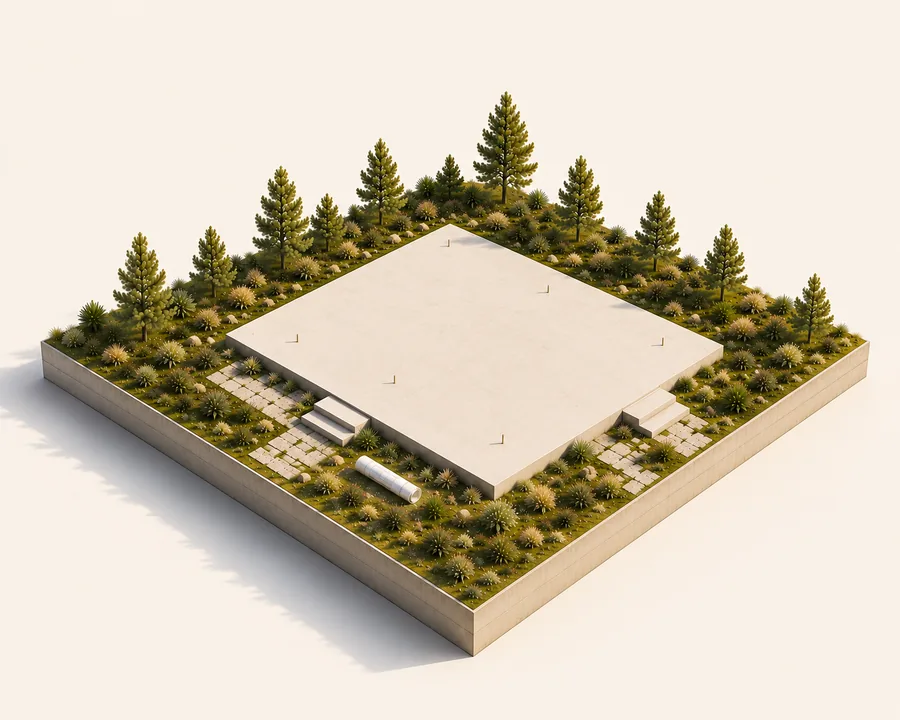
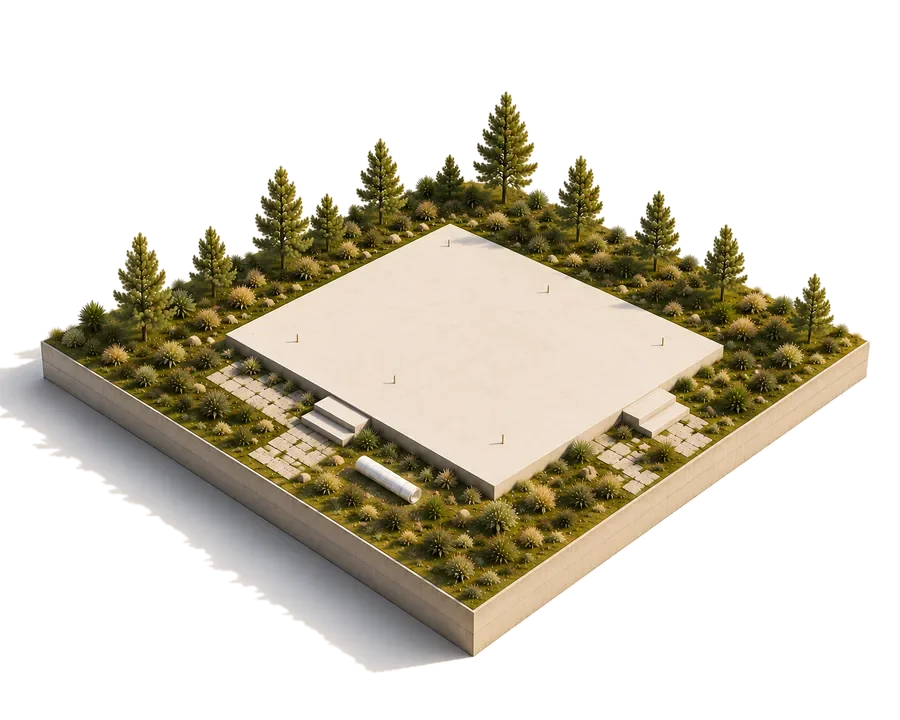
Notre procédé: cartes plus grandes + illustrations détourées; Concept: ombre du tronc
Détourage fait localement (flood fill depuis les bords, en Python/
numpy) après avoir découvert que l'API de détourage Higgsfield n'est
pas joignable depuis ce sandbox. Cartes du carousel agrandies (desktop
et mobile), images en object-contain pour ne plus jamais les recadrer.
Ajout d'une ombre portée synthétique sur le tronc de bois (Concept),
seul des 3 objets à ne pas en avoir une déjà intégrée à sa vidéo.

diff --git a/src/components/ProcedeCarousel.tsx b/src/components/ProcedeCarousel.tsx
@@ -38,6 +38,30 @@ import { AnimatePresence, motion, useReducedMotion } from "framer-motion";
  * jamais `illustrationUrl` est `null` — conservé comme filet de
  * sécurité, plus utilisé actuellement.
  *
+ * Détourage : demande client ("supprime l'arrière-plan des photos pour
+ * qu'elles s'incrustent bien"). Le remplaceur de fond IA d'Higgsfield
+ * (`remove_background`) nécessite un upload vers `upload.higgsfield.ai`
+ * depuis ce sandbox — hôte bloqué par la politique réseau (403 confirmé,
+ * même famille de restriction que les pièces jointes GitHub). Détourage
+ * fait localement à la place : les rendus ont un fond crème quasi
+ * parfaitement uniforme (échantillonné aux 4 coins), mais une simple
+ * distance de couleur globale mord dans le toit (teinte très proche du
+ * fond) — recours à un flood fill (propagation depuis les bords de
+ * l'image, uniquement à travers des pixels "couleur fond", en Python/
+ * numpy) : ne retire QUE la région de fond réellement connectée au
+ * bord, donc le toit clair (jamais connecté au bord, encerclé par la
+ * végétation) reste intact même s'il est presque de la même couleur.
+ * Léger flou (quelques passes de box-blur sur le canal alpha) pour
+ * adoucir le contour plutôt qu'un détourage à l'emporte-pièce. Résultat
+ * en WebP avec canal alpha (même noms de fichiers `procede-0X.webp`,
+ * contenu remplacé).
+ *
+ * Cartes agrandies (desktop et mobile) : `image object-cover` →
+ * `object-contain`, plus la peine de recadrer maintenant que le fond
+ * est transparent — l'espace "vide" autour du sujet ne montre plus une
+ * couleur de secours mais laisse voir le fond crème de la carte,
+ * invisible donc pas de recadrage nécessaire pour cacher un bord.
+ *
  * Mécanique : seules 3 cartes sont montées à la fois (active + 2
  * voisines, `Math.abs(offset) <= 1`) — au-delà, une carte n'existe pas
  * encore dans le DOM. `AnimatePresence` gère alors son entrée (glisse
@@ -99,8 +123,13 @@ function CardIllustration({
   index: number;
 }) {
   if (url) {
+    // object-contain (pas object-cover) : les illustrations sont
+    // détourées (fond retiré), donc plus besoin — et plus jamais
+    // souhaitable — de les recadrer en plein cadre. Le "vide" autour du
+    // sujet est transparent, pas une couleur de secours, donc invisible
+    // sur le fond crème de la carte.
     // eslint-disable-next-line @next/next/no-img-element
-    return <img src={url} alt="" className="h-full w-full object-cover" />;
+    return <img src={url} alt="" className="h-full w-full object-contain" />;
   }
   return (
     <div className="flex h-full w-full items-center justify-center bg-gradient-to-br from-brume-2 to-brume">
@@ -147,14 +176,14 @@ export default function ProcedeCarousel() {
       onMouseLeave={() => setPaused(false)}
     >
       <div
-        className="relative mx-auto h-[460px] max-w-sm sm:h-[500px]"
+        className="relative mx-auto h-[540px] max-w-md sm:h-[620px]"
         style={{ perspective: "1400px" }}
       >
         <AnimatePresence initial={false}>
           {visible.map(({ etape, index, offset }) => {
             const isActive = offset === 0;
             const target = {
-              x: offset * 210,
+              x: offset * 250,
               scale: isActive ? 1 : 0.82,
               opacity: isActive ? 1 : 0.45,
               rotateY: offset * -12,
@@ -164,7 +193,7 @@ export default function ProcedeCarousel() {
             // DOM) démarre plus loin dans le même sens que sa cible,
             // pour glisser vers sa place plutôt que de "popper".
             const enterFrom = {
-              x: offset * 380,
+              x: offset * 460,
               scale: 0.6,
               opacity: 0,
               rotateY: offset * -12,
@@ -176,7 +205,7 @@ export default function ProcedeCarousel() {
                 key={etape.title}
                 className="absolute inset-0 m-auto"
                 style={{
-                  width: "min(100%, 300px)",
+                  width: "min(94%, 360px)",
                   zIndex: isActive ? 3 : 2,
                   pointerEvents: isActive ? "auto" : "none",
                 }}
@@ -191,7 +220,7 @@ export default function ProcedeCarousel() {
                     !isActive ? "cursor-pointer" : ""
                   }`}
                 >
-                  <div className="flex flex-col gap-1 px-6 pt-6">
+                  <div className="flex flex-col gap-1 px-7 pt-7">
                     <span className="eyebrow text-xs text-laiton">
                       {String(index + 1).padStart(2, "0")}
                     </span>
@@ -199,12 +228,17 @@ export default function ProcedeCarousel() {
                       {etape.title}
                     </h3>
                   </div>
-                  <div className="mt-4 h-[38%] w-full shrink-0 px-6">
-                    <div className="h-full w-full overflow-hidden rounded-2xl">
-                      <CardIllustration url={etape.illustrationUrl} index={index} />
-                    </div>
+                  {/* h-[46%] (au lieu de 38%) + object-contain sur
+                      l'image : les illustrations sont maintenant
+                      détourées (voir CardIllustration), donc une image
+                      plus grande ne risque plus de se faire recadrer
+                      moche — elle respire simplement plus dans la
+                      carte, demande client ("les cartes soient plus
+                      grandes... elle ne soit pas coupée"). */}
+                  <div className="mt-4 h-[46%] w-full shrink-0 px-5">
+                    <CardIllustration url={etape.illustrationUrl} index={index} />
                   </div>
-                  <div className="flex flex-1 flex-col gap-2 px-6 py-5">
+                  <div className="flex flex-1 flex-col gap-2 px-7 py-5">
                     <span aria-hidden className="block h-px w-8 bg-laiton" />
                     {"meta" in etape && etape.meta && (
                       <p className="eyebrow text-[10px] text-foret">

diff --git a/src/components/ThreePiliers.tsx b/src/components/ThreePiliers.tsx
@@ -452,6 +452,33 @@ export default function ThreePiliers() {
                 aria-hidden
                 className="absolute inset-0 h-full w-full object-contain"
               />
+              {/* Ombre portée du tronc (étape "Matière" uniquement) :
+                  demande client ("rajoute une ombre au tronc c'est le
+                  seul qui a pas d'ombre") — les 2 autres objets (horloge,
+                  maison) ont déjà leur ombre baked-in dans leur vidéo, le
+                  bois n'en a pas. Comme le fond de la vidéo est déjà
+                  quasi identique à `--brume` (voir halo ci-dessous), une
+                  simple ellipse floue superposée à cet endroit se lit
+                  comme une vraie ombre plutôt que comme un élément
+                  ajouté. Repère de position à l'aveugle (ce bac à sable
+                  ne peut pas décoder de vidéo H.264, donc impossible de
+                  voir où le tronc tombe réellement à l'écran) — à
+                  ajuster avec le client une fois visible en vrai. Affiché
+                  seulement pendant l'étape "Matière" (`activeStep === 0`)
+                  : les 2 autres vidéos ont déjà leur propre ombre, une
+                  2e ombre superposée dessus aurait doublé l'effet. */}
+              <AnimatePresence>
+                {activeStep === 0 && (
+                  <motion.div
+                    aria-hidden
+                    initial={{ opacity: 0 }}
+                    animate={{ opacity: 1 }}
+                    exit={{ opacity: 0 }}
+                    transition={{ duration: 0.4 }}
+                    className="pointer-events-none absolute bottom-[12%] left-1/2 h-[5%] w-[36%] -translate-x-1/2 rounded-[50%] bg-encre/20 blur-md"
+                  />
+                )}
+              </AnimatePresence>
               {/* Halo qui absorbe le très léger écart de teinte entre le
                   fond de la vidéo (~rgb(253, 252, 245)) et celui de la
                   page (`--brume`, rgb(247, 245, 240)) — voir note en tête

diff --git a/README.md b/README.md
@@ -4520,6 +4520,76 @@ image sur la bonne carte dans le bon ordre (fondation vide → grutage →
 chantier → finitions → livraison) ; capture mobile confirmant le rendu
 plein cadre de l'image dans le conteneur arrondi ; `tsc` propre.
 
+### 29 juillet 2026 — Notre procédé : cartes agrandies + détourage local (Higgsfield bloqué) ; Concept : ombre du tronc
+
+Trois demandes client sur les mêmes captures : cartes du carousel plus
+grandes (desktop et mobile), détourage des illustrations pour qu'elles
+"s'incrustent bien" sans être recadrées ni réduites, et une ombre
+portée manquante sur le tronc de bois de la section "Concept"
+(`ThreePiliers.tsx`, étape "Matière").
+
+**Détourage — tentative Higgsfield puis solution locale.** Essayé
+d'abord `mcp__higgsfield__remove_background` (segmentation IA, la bonne
+technique pour un détourage propre). Le flux d'upload demande de PUT
+les octets vers `upload.higgsfield.ai` depuis ce sandbox — hôte bloqué
+par le proxy réseau (403 confirmé, `CONNECT tunnel failed`), même
+famille de restriction que `github.com/user-attachments` rencontrée
+plus tôt. Pas de contournement possible (voir `/root/.ccr/README.md` :
+un 403 se signale, ne se retente pas).
+
+Détourage fait localement à la place, en Python/numpy (pas de
+`ffmpeg`/`rembg`/`opencv` disponibles dans ce sandbox — seuls PIL et
+numpy le sont). Première tentative : distance de couleur simple au
+fond (échantillonné aux 4 coins, quasi parfaitement uniforme,
+rgb(249,241,232)) → mauvais résultat, le toit clair des maisons (teinte
+très proche du fond) se faisait cribler de trous roses/transparents
+partout où sa couleur passait sous le seuil, alors qu'il ne fait pas
+partie du fond. Corrigé avec un **flood fill** : au lieu de tester
+chaque pixel indépendamment, on ne retire que la région "couleur fond"
+réellement **connectée au bord de l'image** (propagation itérative
+vectorisée numpy, ~150-300 itérations selon l'image) — le toit, encerclé
+par la végétation et jamais connecté au bord, reste intact même à
+couleur quasi identique au ciel retiré. Quelques passes de flou sur le
+canal alpha pour adoucir le contour. Résultat vérifié visuellement par
+compositing sur un fond rouge vif (rend n'importe quelle transparence
+immédiatement visible) pour les 5 images avant de considérer le
+détourage bon — toit, cabine blanche du camion-grue, ombre portée sous
+la dalle : tous préservés correctement. Fichiers réencodés en WebP avec
+canal alpha (mêmes noms `procede-0X.webp`, contenu remplacé, PNG
+intermédiaires supprimés).
+
+**Cartes agrandies** (`ProcedeCarousel.tsx`) : scène `h-[460px]
+max-w-sm sm:h-[500px]` → `h-[540px] max-w-md sm:h-[620px]` ; largeur de
+carte `min(100%, 300px)` → `min(94%, 360px)` ; décalages horizontaux
+neighbor/enter proportionnellement augmentés (210→250, 380→460) pour
+garder le même ratio de recouvrement avec des cartes plus larges.
+`CardIllustration` : `object-cover` → `object-contain` — maintenant que
+le fond est transparent, plus besoin de recadrer pour cacher un bord de
+photo ; l'espace "vide" autour du sujet laisse simplement voir le fond
+crème de la carte. Zone d'illustration : `h-[38%]` → `h-[46%]`.
+
+**Ombre du tronc** (`ThreePiliers.tsx`) : les 2 autres transitions
+(horloge, maison) ont leur ombre déjà cuite dans la vidéo source, celle
+du bois n'en a pas — retour client explicite ("c'est le seul qui a pas
+d'ombre"). Solution : une ellipse floue (`bg-encre/20 blur-md`)
+superposée en bas du cadre vidéo, visible uniquement pendant l'étape
+"Matière" (`activeStep === 0`, via `AnimatePresence`) pour ne pas
+doubler l'ombre des 2 autres vidéos qui en ont déjà une. **Position non
+vérifiable visuellement** : ce sandbox ne peut pas décoder de vidéo
+H.264 (documenté ailleurs dans ce fichier), donc impossible de voir où
+le tronc tombe réellement dans le cadre pour caler l'ellipse au pixel
+près — position posée au jugé à partir de la capture d'écran envoyée
+par le client (tronc à peu près centré, base proche du bas du cadre),
+à ajuster avec retour client une fois visible en vrai.
+
+**Vérifications** : `tsc` propre ; capture Playwright desktop et mobile
+du carousel (carte plus grande, illustration détourée non recadrée,
+fond de carte et fond de l'image visuellement continus) sur plusieurs
+étapes (01 et 03) ; section Concept capturée mais vidéo non rendue
+(sandbox sans décodeur H.264, limitation connue) — mécanique de
+l'ombre (montage conditionnel sur `activeStep`) vérifiée par lecture de
+code, pas visuellement.
+
 ## À faire avant la mise en prod
 
 - **Vulnérabilités npm restantes (`postcss`/`sharp` bundlés dans
